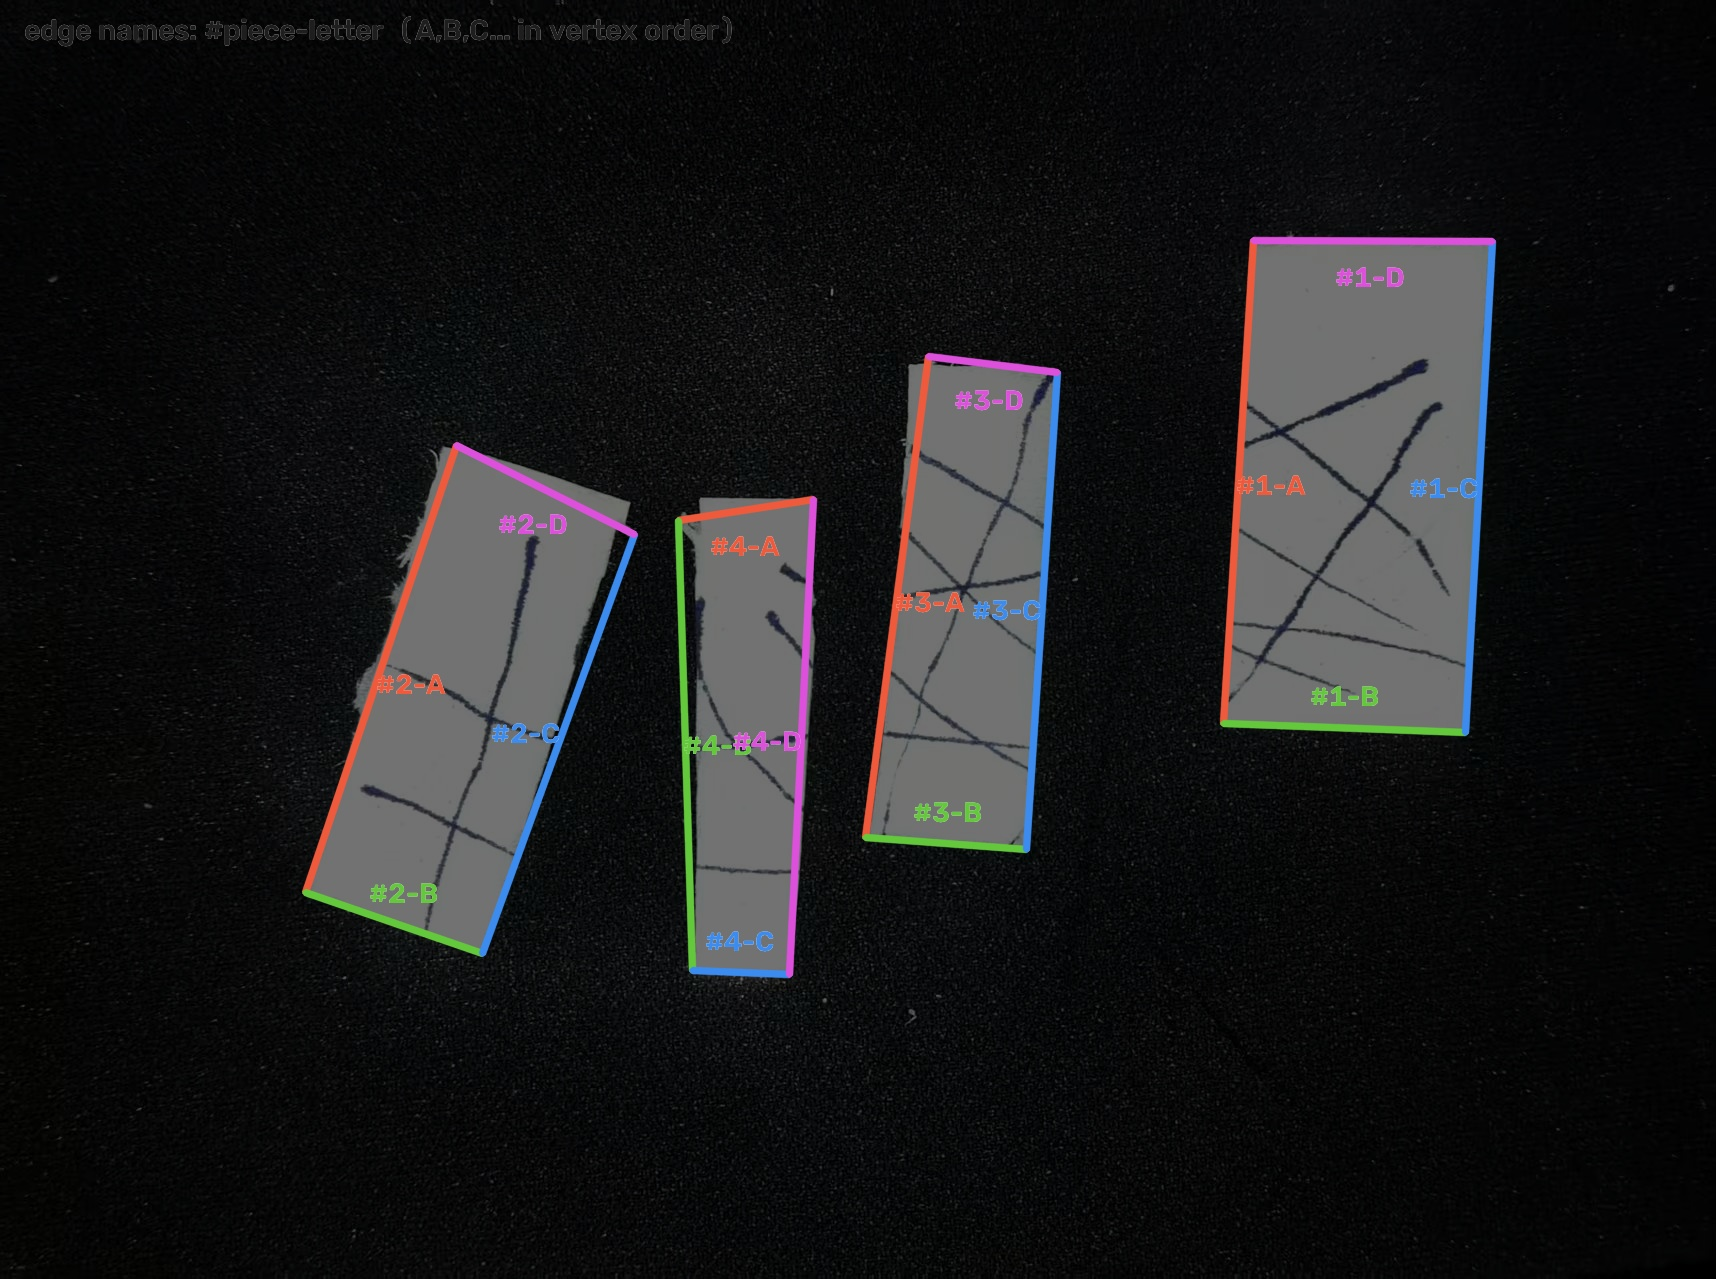
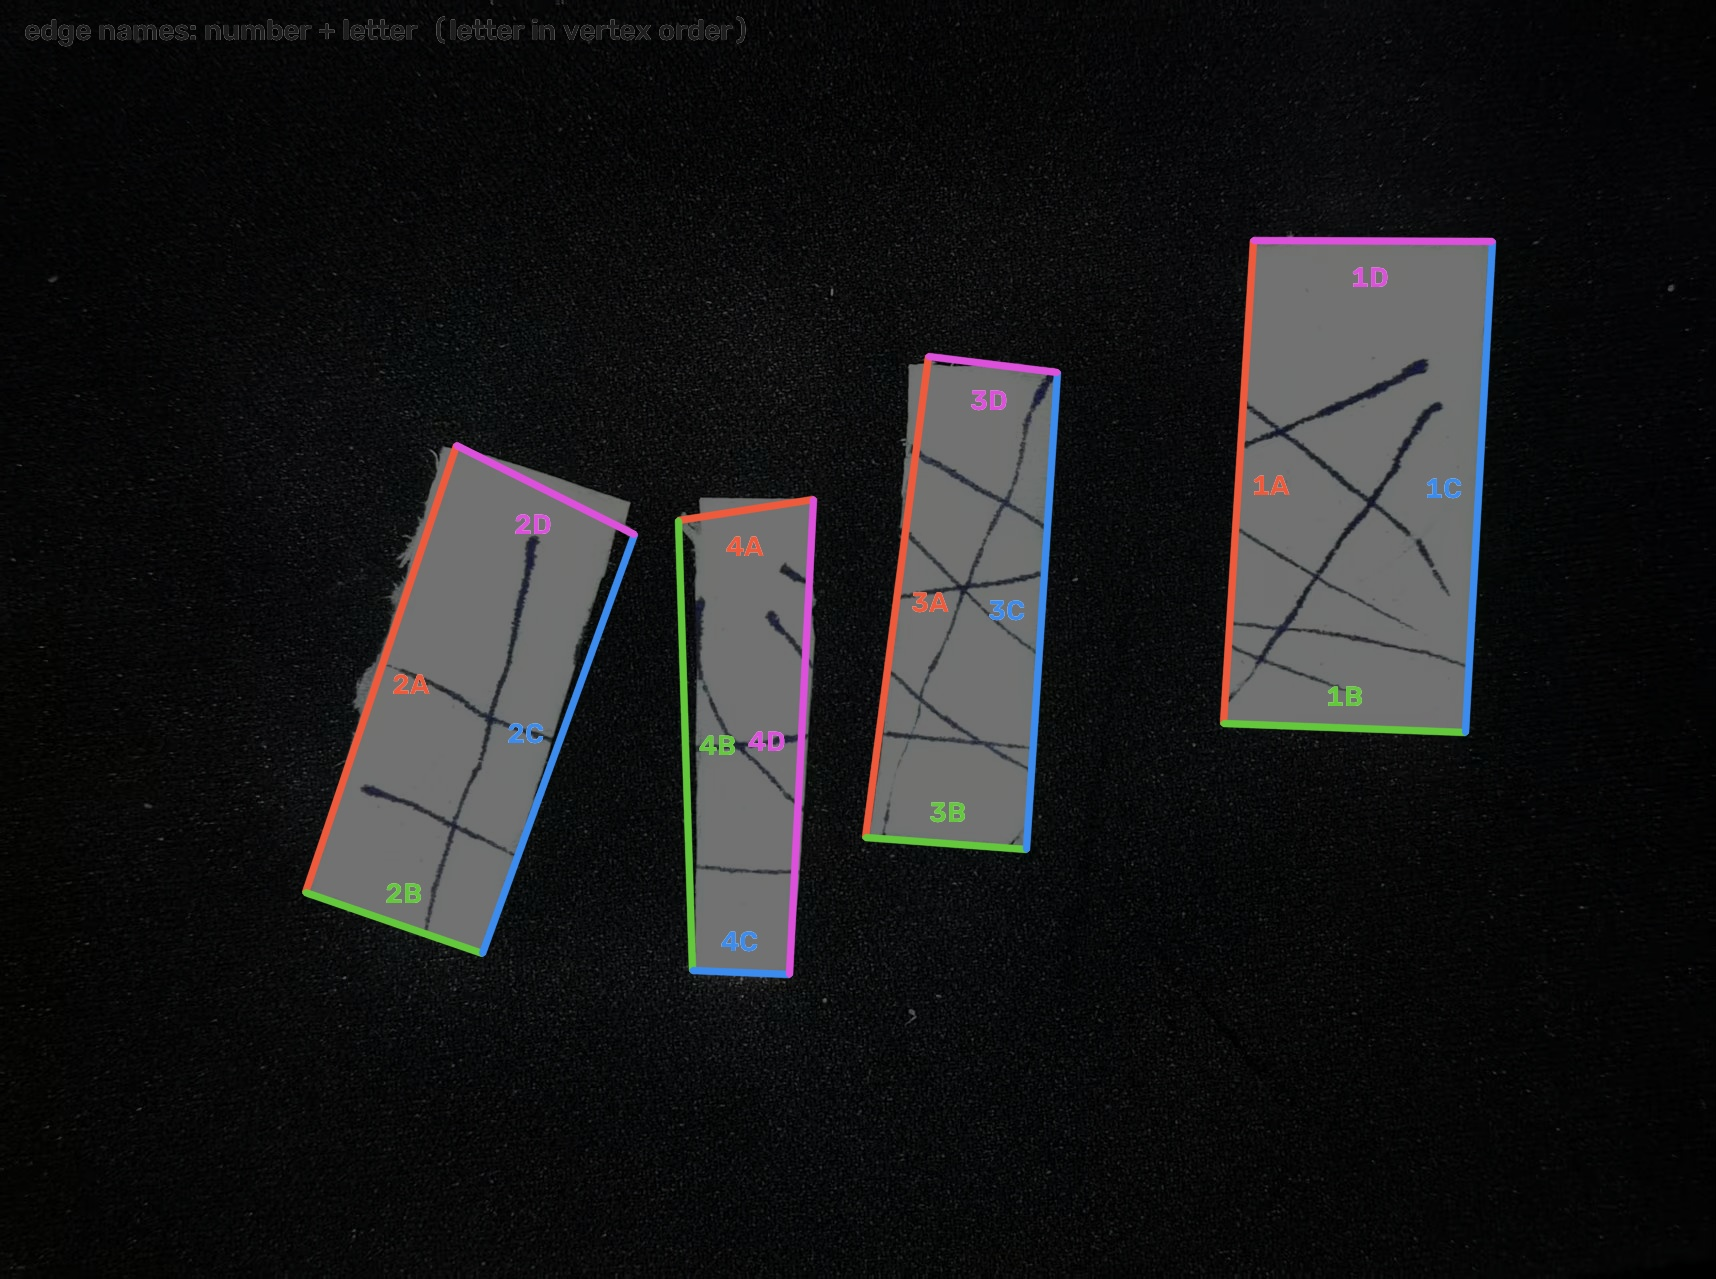
style(边编号): 边名去掉符号，只用数字+字母（#1-A → 1A）
按用户要求：边名不再带 # 和 -，改成纯数字+字母组合：1A / 1B / ... / 4D。\n- label_edges.py 里 name 从 "#%d-%s" 改为 "%d%s"；\n- 图顶部说明文字同步改为 number + letter；\n- edges.json 的 edge 字段同步更新。\n\n自检：edges.json 里 16 个边名 = 1A 1B 1C 1D 2A 2B 2C 2D 3A 3B 3C 3D 4A 4B 4C 4D（无符号）。

diff --git a/纹理拼合/tools/label_edges.py b/纹理拼合/tools/label_edges.py
@@ -1,6 +1,6 @@
 """给每个碎片的每条边取名字并画出来（诊断用）。
 
-命名规则：`#块号-边号`，边号按多边形顶点顺序 A、B、C……循环。
+命名规则：`块号+边号`（只有数字和字母），边号按多边形顶点顺序 A、B、C……循环。
 标签画在边的中点、朝块内偏移一点，白底描边，黑底/白纸都看得清。
 同时打印一张表：边名、长度、起点、终点、方向角、中点。
 
@@ -66,7 +66,7 @@ def main() -> int:
         n = len(poly)
         centroid = poly.mean(axis=0)
         for i, e in enumerate(p["edges"]):
-            name = "#%d-%s" % (pid, LETTERS[i])
+            name = "%d%s" % (pid, LETTERS[i])
             a = np.asarray(e["a"], float)
             b = np.asarray(e["b"], float)
             col = COLORS[i % len(COLORS)]
@@ -90,9 +90,9 @@ def main() -> int:
             })
 
     # 顶部加一行说明
-    cv2.putText(out, "edge names: #piece-letter  (A,B,C... in vertex order)",
+    cv2.putText(out, "edge names: number + letter  (letter in vertex order)",
                 (24, 40), cv2.FONT_HERSHEY_SIMPLEX, 1.0, (255, 255, 255), 6, cv2.LINE_AA)
-    cv2.putText(out, "edge names: #piece-letter  (A,B,C... in vertex order)",
+    cv2.putText(out, "edge names: number + letter  (letter in vertex order)",
                 (24, 40), cv2.FONT_HERSHEY_SIMPLEX, 1.0, (30, 30, 30), 3, cv2.LINE_AA)
 
     outdir = Path(args.out)
